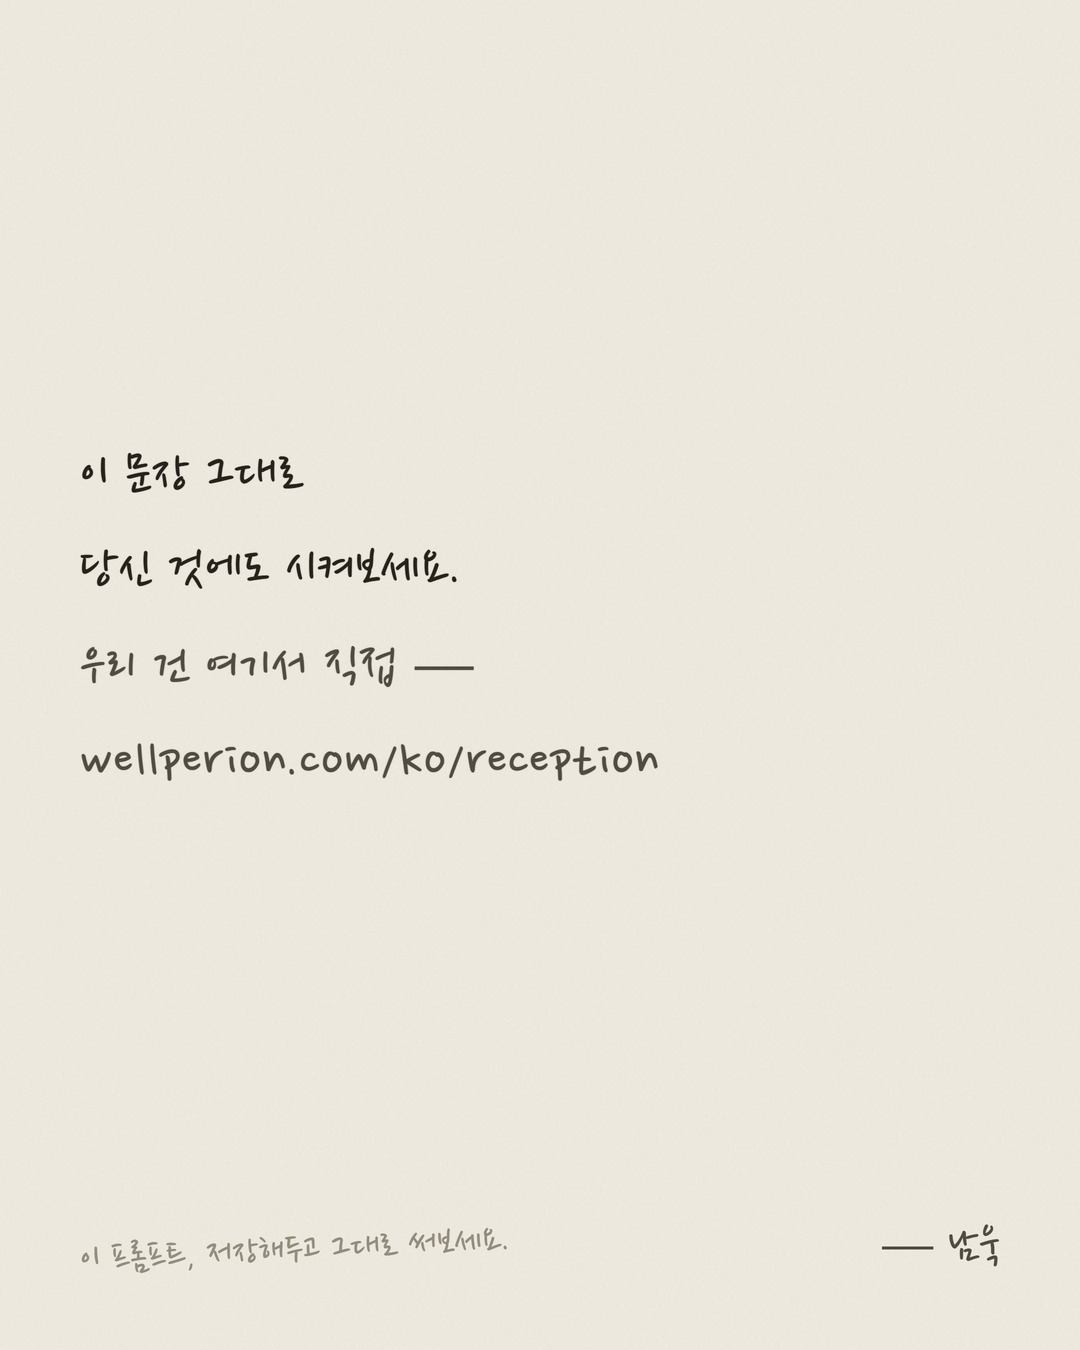
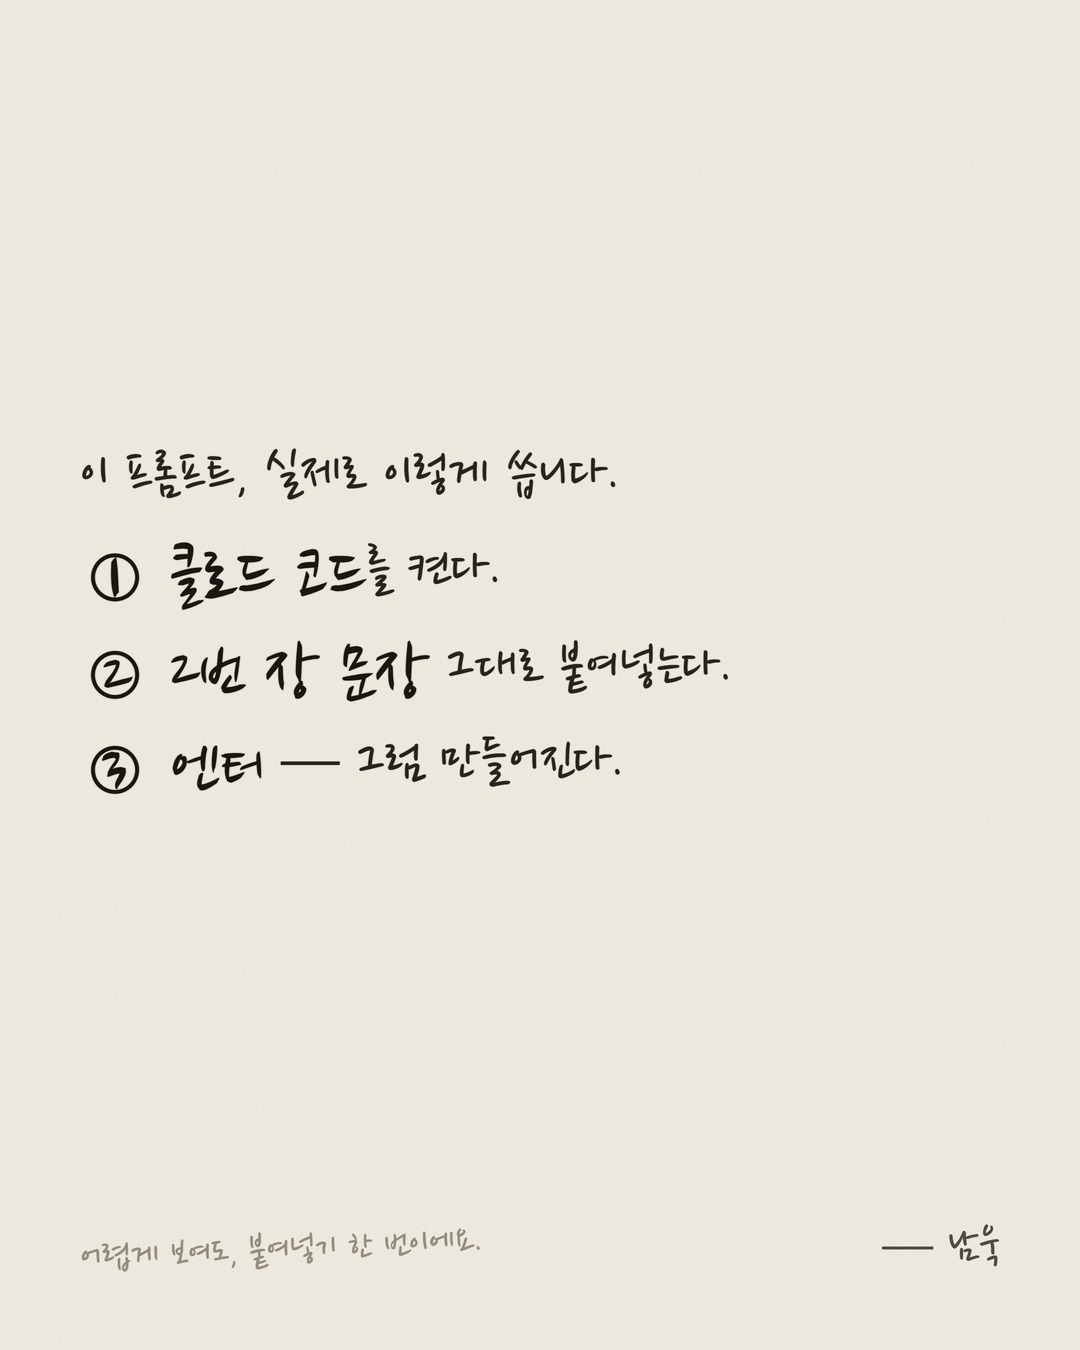
fix(cmo): 실전사례 03 마지막 장 — 저장 유도→클로드 코드 실행 방법 3단계로 교체
GM 피드백: 막연한 "당신 것에도 시켜보세요" 대신 공개한 프롬프트를 클로드
코드(Claude Code)에 실제로 어떻게 넣는지(켠다→붙여넣는다→엔터) 구체 안내.
1~5장 무변경. 재렌더 후 검수큐 note 갱신·텔레그램 검수카드 재발송(이전 카드
자동 삭제).

diff --git a/instagram/namuk.wellperion/260710_AI_종합접수처_프롬프트공개/ep03_diary_source.html b/instagram/namuk.wellperion/260710_AI_종합접수처_프롬프트공개/ep03_diary_source.html
@@ -130,14 +130,14 @@
       </div></div>
     </div>
 
-    <!-- 6 마무리 -->
+    <!-- 6 실행 방법 -->
     <div class="cell">
-      <div class="cap">6 · 마무리</div>
+      <div class="cap">6 · 이렇게 써요</div>
       <div class="sheet"><div class="pad mid">
         <div class="body"><div class="entry small">
-          이 문장 그대로<br>당신 것에도 시켜보세요.<br><span class="soft">우리 건 여기서 직접 —</span><br><span class="url">wellperion.com/ko/reception</span>
+          이 프롬프트, 실제로 이렇게 씁니다.<br><span class="hit">① 클로드 코드</span>를 켠다.<br><span class="hit">② 2번 장 문장</span> 그대로 붙여넣는다.<br><span class="hit">③ 엔터</span> — 그럼 만들어진다.
         </div></div>
-        <div class="foot"><span class="aside">이 프롬프트, 저장해두고 그대로 써보세요.</span><span class="sign">— 남욱</span></div>
+        <div class="foot"><span class="aside">어렵게 보여도, 붙여넣기 한 번이에요.</span><span class="sign">— 남욱</span></div>
       </div></div>
     </div>
 
